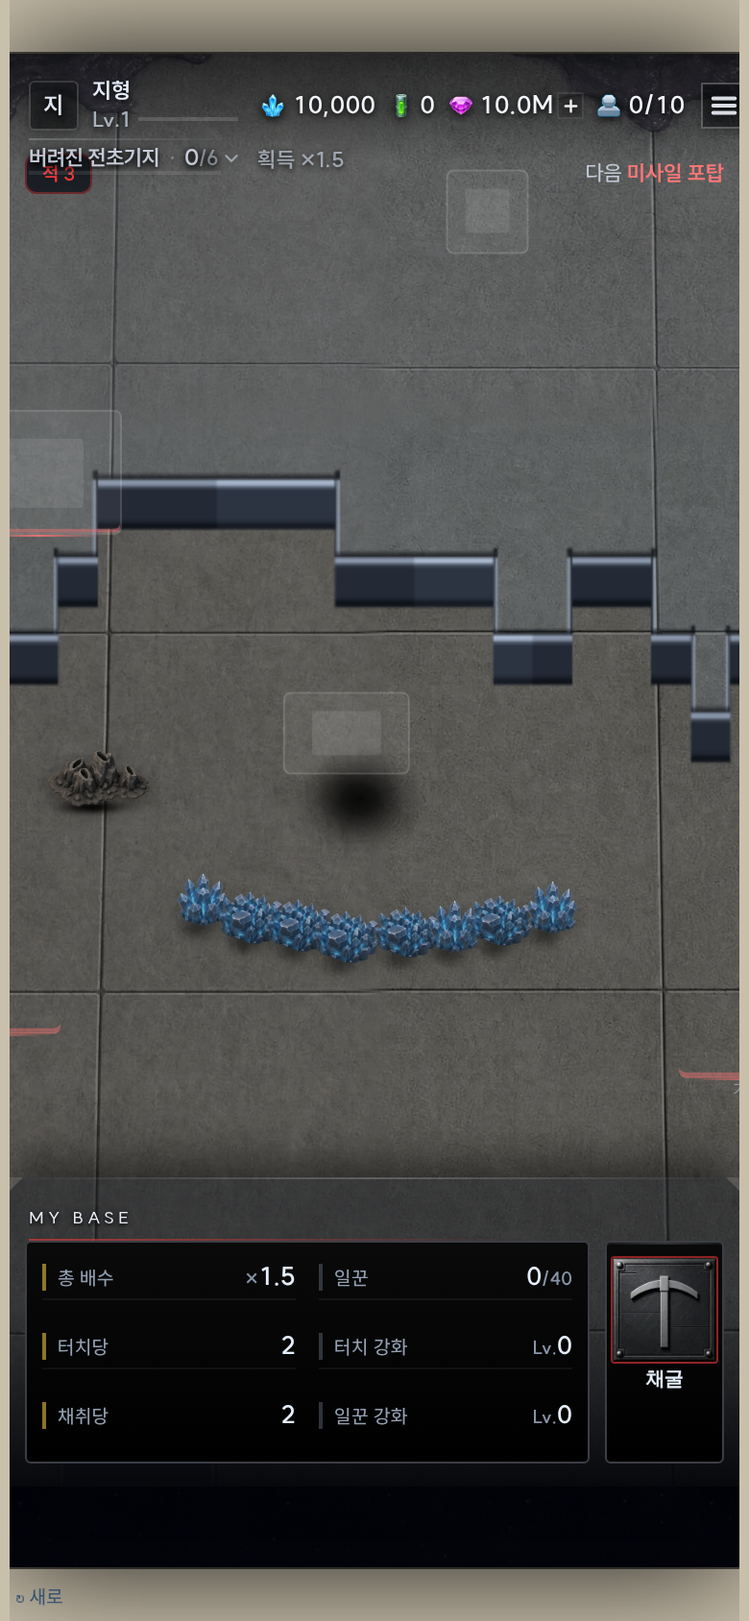
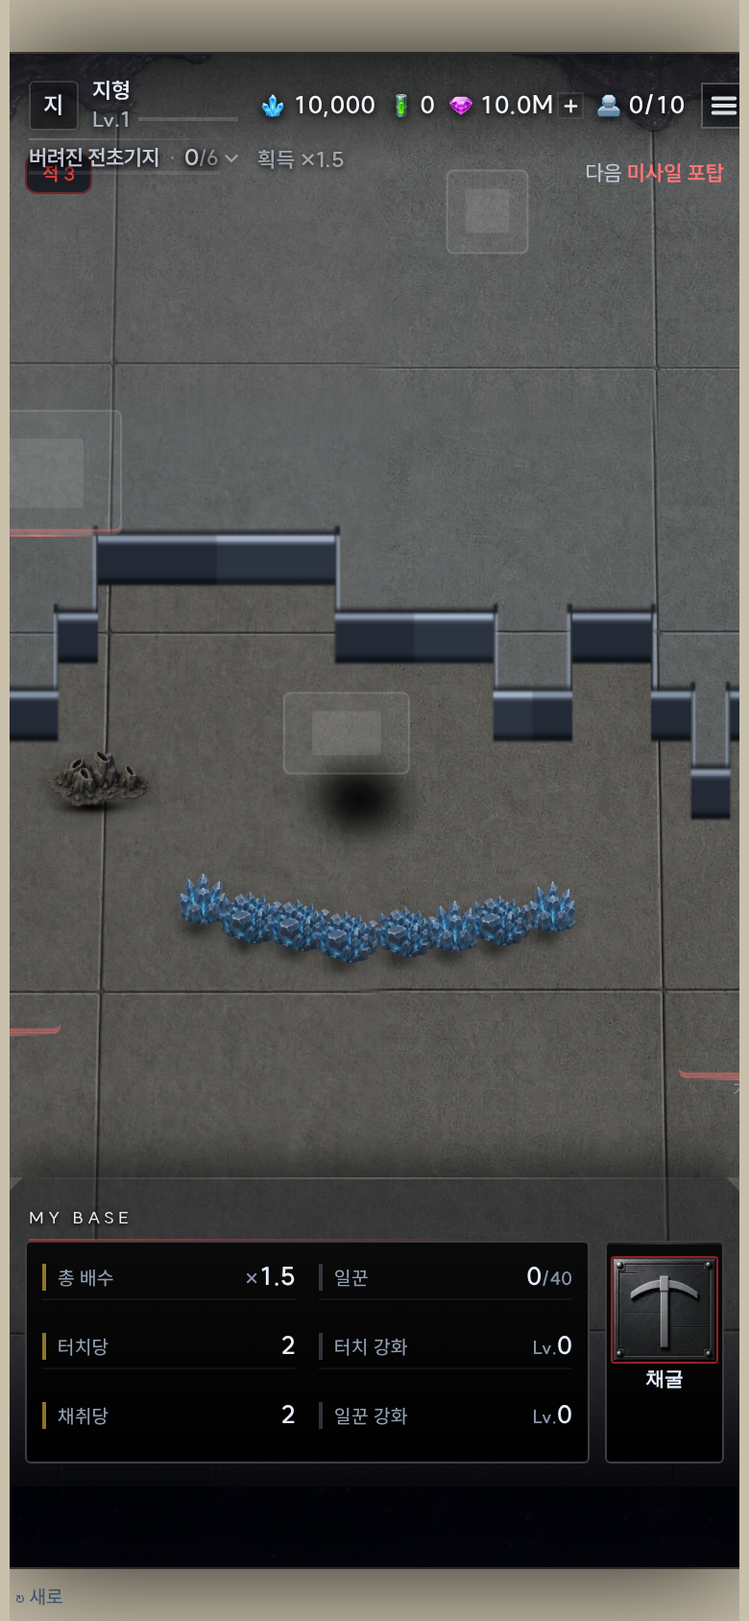
🚶 지형층 3단계 — 전장이 제 길찾기를 갖는다(흐름장)
⛔ **두 번 실패하고 세 번째에 됐다. 되돌리기 전에 ARCHITECTURE §「길막기」를 읽을 것.**

- 2026-09-05: 건물을 원형 장애물로 만들어 국소 회피에 맡김 → 아군이 갇혔다.
- 2026-09-10(이번 세션 앞): 지형을 `_techNavRects` 에 얹어 기지의 A* 를 빌림 → **또 갇혔다.**
  원인은 한 줄이다 — `_techFindPath` 는 기지 격자 전용이라 `p[1]>0.12` 로 노드를 걸러
  **격자 위 지형의 꼭짓점을 전부 버린다**. 장애물은 보되 돌아갈 모서리가 안 생긴다.
  A/B 6판: 지형 끔 6/6 전진 · 켬 4/6(두 판은 반대로 가서 굳었다). 그래서 접었다.

⭐ 지금 방식 — **전장은 제 길찾기를 갖는다.** 목적지 칸마다 BFS 거리 지도(흐름장)를
한 장 만들어 캐시하고, 유닛은 제 칸에서 내리막만 따라간다.
  campTerrMask → campTerrFlow → campTerrWay, 그리고 campMove 는 **목표만 바꾼다**.
  지형은 흐름장, 건물은 기존 A* — 두 길찾기가 각자 제 일만 한다.
  ⛔ 밀어내기는 안 한다(2026-09-05 갇힘의 원인) — 밀려 들어가도 흐름을 타고 나온다.

만들면서 실측으로 잡은 것 넷
- 🛤 **레인 밖을 안 막아** 유닛이 gx 0.06 에 서서 gx 0.01 로 가라는 지시를 30초 받았다.
  전장은 격자 gx 0.06~0.94 만 간다(campG2W 가 펴고 물리가 자른다). 마스크에 넣었다.
- 📏 연결성 검사의 목표 행이 **한 행 어긋나** 300/300 실패했다(마스크는 칸 중심으로
  판단하는데 행은 gy 로 잡았다). 그래서 생성기가 벽을 전부 걷어 내고 있었다.
- 🧹 `campTerrGen` 이 **안 비우고 쌓았다**(램프 12 → 22 → 33).
- 🧗 벽에 바싹 붙으면 옆 칸 중심까지도 「안 보인다」가 되어 우회를 포기하고 굳었다(8판 중 1판).

📊 실측 8판: 벽 너머 도달 8/8 · 고원(램프) 도달 8/8 · 램프를 탄 판 4/8(우회 끄면 0/8) ·
막힌 칸을 밟은 프레임 0~1(끄면 3~8) · 던전 1 클리어 92~99초(기준선 93초).

검증: 스모크에 다섯 가지 추가(램프는 뚫림·절벽 테두리는 막힘 / 레인 밖은 전부 막힘 /
평지에서는 우회 안 함 / 벽 너머로 **실제로 돌아가서** 도달 / 씨앗 결정성).
**주입 시험 5건 전부 물었다** — 처음엔 둘이 안 물어 가드를 고쳤다(「도착했나」로는 못 잰다:
밀어내기를 안 해서 우회를 꺼도 뚫고 도착한다 → 「막힌 칸을 밟은 프레임」으로 바꿨다).

Claude-Session: https://claude.ai/code/session_01EtmtaHFCqqHiZ1fmbN5ZoQ

Changed region(s): [[0.0, 0.2773, 1.0, 0.5237]]

diff --git a/js/24-terrain.js b/js/24-terrain.js
@@ -74,6 +74,9 @@ function campTerrRowAt(wy){ const T = CAMPT; return Math.round(((wy - T.wy0) / (
  *   ⛔ Math.random 을 쓰지 말 것: 저장·복원하면 지형이 바뀌고 스모크가 못 잰다. */
 function campTerrGen(dg, seed){
   const T = CAMPT; if(!T) return null;
+  // 🧹 **비우고 시작한다** — 같은 지형에 두 번 부르면 램프·벽이 **쌓인다**(2026-09-11 실측: 램프 12 → 22 → 33).
+  //   보통은 campTerrInit 이 새 배열을 주지만, 검사·재생성은 같은 지형에 다시 부른다.
+  T.h.fill(0); T.r.fill(0); T.w.fill(0); T.bake = null; T._blk = null; T._flow = null;
   const R = campFoeRng((seed >>> 0) ^ 0x9E3779B9 ^ ((dg | 0) * 2654435761));
   const C = T.cols, W = T.rows;
   // 🏔 고원 — **위 끝에서** 아래 가장자리까지 통째로 고지다.
@@ -109,16 +112,69 @@ function campTerrGen(dg, seed){
   T.bake = null;
   return T; }
 
-/* 🚧 아래 끝(내 기지)에서 위 끝(적 기지)까지 벽을 피해 갈 수 있나 — 4방향 flood fill.
- *   ⚠ 절벽은 여기서 안 본다(램프가 있고, 3단계 전에는 아무것도 안 막는다). */
+/* 🚧 **무엇이 길을 막나** — 한 곳에서 정한다(흐름장·연결성 검사·스모크가 같은 자를 쓴다).
+ *   ① 벽 · ② **절벽의 테두리**(고지인데 4방향 중 저지가 하나라도 있는 칸).
+ *   ⭐ 절벽을 「고원 전체」로 잡으면 적 기지가 통째로 장애물 안에 들어가 아군이 못 간다.
+ *     막아야 하는 것은 **면이 아니라 경계**다 — 고원 안은 걸어 다닐 수 있어야 한다.
+ *   🚪 **램프는 뚫려 있다** — 그것이 올라가는 유일한 길이다(⛔ 램프를 막으면 던전이 멈춘다).
+ *   ⚠ 지도 **밖**은 「높다」로 친다 — 안 그러면 지도 네 변이 통째로 절벽이 된다. */
+function campTerrHiAt(tx, ty){
+  const T = CAMPT;
+  if(tx < 0 || ty < 0 || tx >= T.cols || ty >= T.rows) return 1;   // 밖 = 높다
+  return T.h[ty * T.cols + tx] > 0 ? 1 : 0; }
+function campTerrBlockedAt(tx, ty){
+  const T = CAMPT, i = ty * T.cols + tx;
+  if(T.w[i]) return true;                       // 🧱 벽
+  if(!T.h[i] || T.r[i]) return false;           // 저지·램프는 안 막는다
+  return !campTerrHiAt(tx - 1, ty) || !campTerrHiAt(tx + 1, ty)
+      || !campTerrHiAt(tx, ty - 1) || !campTerrHiAt(tx, ty + 1); }   // ⛰ 절벽 테두리
+/* 🛤 **전장이 실제로 닿는 칸의 범위**(레인 상자 · 격자 좌표).
+ *   ⚠ 지형 격자는 gx 0~1 · gy wy0~1 을 다 갖지만, **전장은 그만큼 못 간다**:
+ *     `campG2W` 가 x 를 `0.5+(gx-0.5)/CAMP_LANE_W` 로 펴고 `strikeMoveToward` 가 0~world 로 자르므로
+ *     격자 x 0.06 보다 왼쪽·0.94 보다 오른쪽은 **전부 같은 자리로 접힌다**. 세로도 마찬가지다(t 가 잘린다).
+ *   ⛔ 이 범위를 흐름장에서 빼지 말 것 — 실측(2026-09-11): 유닛이 gx 0.06 에 서서 **gx 0.01 로 가라는
+ *     지시를 30초 동안 받았다.** 갈 수 없는 칸이라 영영 안 움직였다(8판 중 1판). */
+function campTerrLane(){
+  const w = (typeof CAMP_LANE_W !== 'undefined') ? CAMP_LANE_W : 0.88;
+  const top = (typeof CAMP_LANE_TOP !== 'undefined') ? CAMP_LANE_TOP : -0.26;
+  const bot = (typeof CAMP_LANE_BOT !== 'undefined') ? CAMP_LANE_BOT : 0.62;
+  const tmin = (typeof CAMP_LANE_TMIN !== 'undefined') ? CAMP_LANE_TMIN : (-0.14 / 0.72);
+  return { x0: 0.5 - w / 2, x1: 0.5 + w / 2, y0: top + tmin * (bot - top), y1: bot }; }
+/* 막힌 칸 표 — 흐름장·직선 판정·연결성 검사가 **같은 표**를 본다(한 번만 만든다).
+ *   ⚠ 「지형이 막는가」(`campTerrBlockedAt`)와 다른 자다 — 여기엔 **레인 밖**이 함께 들어간다. */
+function campTerrMask(){
+  const T = CAMPT; if(!T) return null;
+  if(T._blk) return T._blk;
+  const C = T.cols, W = T.rows, m = new Uint8Array(C * W), L = campTerrLane(), span = T.wy1 - T.wy0;
+  for(let ty = 0; ty < W; ty++){ const gy = T.wy0 + ((ty + 0.5) / W) * span;
+    const outY = (gy < L.y0 || gy > L.y1);
+    for(let tx = 0; tx < C; tx++){ const gx = (tx + 0.5) / C;
+      m[ty * C + tx] = (outY || gx < L.x0 || gx > L.x1 || campTerrBlockedAt(tx, ty)) ? 1 : 0; } }
+  T._blk = m; return m; }
+/* 레인 안에 **칸 중심**이 들어오는 행의 위·아래 끝.
+ *   ⚠ 「gy 가 든 행」으로 잡으면 안 된다 — 마스크는 **중심**으로 판단하므로 한 행 어긋나
+ *     목표 행이 통째로 막힌 행이 되어 **연결성 검사가 늘 실패한다**(2026-09-11 실측 300/300). */
+function campTerrLaneRows(){
+  const T = CAMPT, L = campTerrLane(), span = T.wy1 - T.wy0;
+  const inLane = ty => { const gy = T.wy0 + ((ty + 0.5) / T.rows) * span; return gy >= L.y0 && gy <= L.y1; };
+  let hi = 0; while(hi < T.rows && !inLane(hi)) hi++;
+  let lo = T.rows - 1; while(lo >= 0 && !inLane(lo)) lo--;
+  return { hi: hi, lo: lo }; }
+/* 🚧 내 쪽 끝에서 적 쪽 끝까지 갈 수 있나 — 4방향 flood fill.
+ *   ⚠ **절벽도 함께 본다** — 벽만 보면 「램프가 벽에 막혔다」를 못 잡는다.
+ *   ⚠ **레인 안에서만 잰다**(campTerrMask) — 격자 맨 아랫줄·맨 윗줄은 전장이 못 가는 자리다.
+ *     거기서 출발하면 늘 「막혔다」가 나와 생성기가 벽을 전부 걷어 낸다. */
 function campTerrConnected(){
   const T = CAMPT; if(!T) return true;
-  const C = T.cols, W = T.rows, seen = new Uint8Array(C * W), q = [];
-  for(let tx = 0; tx < C; tx++){ const i = (W - 1) * C + tx; if(!T.w[i]){ seen[i] = 1; q.push(i); } }
+  T._blk = null;                       // 벽이 방금 바뀌었다 — 표를 다시 만든다
+  const C = T.cols, W = T.rows, m = campTerrMask(), R = campTerrLaneRows();
+  const yLo = R.lo, yHi = R.hi;   // 아래(나) ↔ 위(적)
+  const seen = new Uint8Array(C * W), q = [];
+  for(let tx = 0; tx < C; tx++){ const i = yLo * C + tx; if(!m[i]){ seen[i] = 1; q.push(i); } }
   for(let p = 0; p < q.length; p++){ const i = q[p], x = i % C, y = (i / C) | 0;
-    if(y === 0) return true;
+    if(y <= yHi) return true;
     const nb = [x > 0 ? i - 1 : -1, x < C - 1 ? i + 1 : -1, y > 0 ? i - C : -1, y < W - 1 ? i + C : -1];
-    for(const j of nb){ if(j < 0 || seen[j] || T.w[j]) continue; seen[j] = 1; q.push(j); } }
+    for(const j of nb){ if(j < 0 || seen[j] || m[j]) continue; seen[j] = 1; q.push(j); } }
   return false; }
 
 // ── 오토타일 ──────────────────────────────────────────────────────────────
@@ -291,6 +347,111 @@ function campTerrPushHeight(fog){
 function campTerrHeightFill(f){
   if(!f || !campTerrSync()) return 0;
   return campTerrPushHeight(f); }
+
+/* ══ 🚶 길막기 — 전장 흐름장 (2026-09-11 · 3단계) ══════════════════════════════════
+ * ⛔ **먼저 두 번 실패했다. 되돌리기 전에 여기를 읽을 것.**
+ *   ① 2026-09-05 — 건물을 「원형 장애물」로 만들어 국소 회피에 맡겼다 → **아군이 갇혔다**
+ *     (의무병이 아군에게서 1152 → 1387 로 멀어졌다 · 19-camp.js 3017). 길찾기가 없으면 뒤로 길이 안 난다.
+ *   ② 2026-09-10 — 지형을 **`_techNavRects` 에 얹어** 기지의 A\*(`_techFindPath`)를 빌리려 했다 →
+ *     **또 갇혔다.** 원인은 그 함수가 **기지 격자 전용**이라는 것이다: 노드를 고를 때 `p[1]>0.12` 로
+ *     거르므로(16-build.js) **격자 위 지형의 꼭짓점이 전부 버려진다** — 장애물은 보되 **돌아갈 모서리가
+ *     하나도 안 생긴다.** 실측 A/B 6판: 지형 끔 6/6 전진 · 지형 켬 **4/6**(두 판은 반대로 가서 굳었다).
+ *   ⛔ 그래서 지형을 `_techNavRects` 에 넣지 말 것. 16-build.js 도 못 고친다(관리자 탭·오토배틀 공유).
+ *
+ * ⭐ **그래서 전장은 제 길찾기를 갖는다 — 지형 격자 위의 흐름장이다.**
+ *   목적지 칸마다 **BFS 거리 지도**를 한 장 만들고(캐시), 유닛은 제 칸에서 **내리막**만 따라간다.
+ *   · 유닛 수에 비례하지 않는다(지도 한 장을 전군이 나눠 읽는다)
+ *   · y 제한이 없다(격자 위 적 기지까지 같은 격자다)
+ *   · 지형은 안 변하니 목적지당 **한 번만** 계산한다
+ *   ⚠ **목표를 바꾸기만 한다** — 그 뒤의 건물 회피(`_techFindPath`)는 그대로 돈다. 두 길찾기가
+ *     각자 제 일만 한다: 지형은 흐름장, 건물은 A\*. ⛔ 하나로 합치려 하지 말 것.
+ *   ⚠ **밀어내기는 하지 않는다** — 억지로 밀려 들어간 유닛도 흐름을 타고 스스로 나온다(①의 교훈).
+ */
+const TERR_WAY_STEPS = 28;    // 흐름을 따라 앞을 내다보는 칸 수(끈 당기기)
+const TERR_FLOW_KEEP = 8;     // 들고 있는 흐름장 수(목적지별)
+const TERR_SEG_MAX   = 160;   // 직선 판정에서 찍어 보는 점의 상한
+
+function campTerrIdxAt(gx, gy){
+  const T = CAMPT; if(!T) return -1;
+  const C = T.cols, W = T.rows;
+  const x = Math.floor(gx * C), y = Math.floor(((gy - T.wy0) / (T.wy1 - T.wy0)) * W);
+  return (x < 0 || y < 0 || x >= C || y >= W) ? -1 : y * C + x; }
+function campTerrCellMid(i){
+  const T = CAMPT, C = T.cols, W = T.rows;
+  return { gx: ((i % C) + 0.5) / C, gy: T.wy0 + ((((i / C) | 0) + 0.5) / W) * (T.wy1 - T.wy0) }; }
+/* 직선이 지형에 막히나 — 칸 해상도로 찍어 본다(⚠ 매 프레임 유닛마다 불린다: 상한을 둔다). */
+function campTerrSegBlocked(x0, y0, x1, y1){
+  const T = CAMPT; if(!T) return false;
+  const m = campTerrMask(), C = T.cols, W = T.rows, span = T.wy1 - T.wy0;
+  const n = Math.max(2, Math.min(TERR_SEG_MAX,
+    Math.ceil(Math.max(Math.abs(x1 - x0) * C, (Math.abs(y1 - y0) / span) * W) * 1.5)));
+  for(let k = 0; k <= n; k++){ const t = k / n;
+    const x = Math.floor((x0 + (x1 - x0) * t) * C);
+    const y = Math.floor((((y0 + (y1 - y0) * t) - T.wy0) / span) * W);
+    if(x < 0 || y < 0 || x >= C || y >= W) continue;
+    if(m[y * C + x]) return true; }
+  return false; }
+/* 목적지 칸 → 거리 지도(BFS). ⚠ 목적지가 막힌 칸이면(건물이 절벽 테두리에 섰다) **둘레에서** 시작한다. */
+function campTerrFlow(goal){
+  const T = CAMPT; if(!T) return null;
+  if(!T._flow) T._flow = new Map();
+  const hit = T._flow.get(goal); if(hit) return hit;
+  const C = T.cols, W = T.rows, n = C * W, m = campTerrMask();
+  const dist = new Int32Array(n).fill(-1), q = [];
+  const seed = i => { if(i >= 0 && i < n && dist[i] < 0 && !m[i]){ dist[i] = 0; q.push(i); } };
+  seed(goal);
+  if(!q.length){ const gx = goal % C, gy = (goal / C) | 0;
+    for(let r = 1; r <= 4 && !q.length; r++)
+      for(let dy = -r; dy <= r; dy++) for(let dx = -r; dx <= r; dx++){
+        if(Math.max(Math.abs(dx), Math.abs(dy)) !== r) continue;
+        const x = gx + dx, y = gy + dy; if(x < 0 || y < 0 || x >= C || y >= W) continue;
+        seed(y * C + x); } }
+  for(let p = 0; p < q.length; p++){
+    const i = q[p], x = i % C, y = (i / C) | 0, d = dist[i] + 1;
+    if(x > 0    && dist[i - 1] < 0 && !m[i - 1]){ dist[i - 1] = d; q.push(i - 1); }
+    if(x < C - 1 && dist[i + 1] < 0 && !m[i + 1]){ dist[i + 1] = d; q.push(i + 1); }
+    if(y > 0    && dist[i - C] < 0 && !m[i - C]){ dist[i - C] = d; q.push(i - C); }
+    if(y < W - 1 && dist[i + C] < 0 && !m[i + C]){ dist[i + C] = d; q.push(i + C); } }
+  if(T._flow.size >= TERR_FLOW_KEEP) T._flow.delete(T._flow.keys().next().value);
+  T._flow.set(goal, dist);
+  return dist; }
+function _terrDownhill(i, d){
+  const T = CAMPT, C = T.cols, W = T.rows, x = i % C, y = (i / C) | 0;
+  let best = -1, bd = d[i];
+  const try_ = j => { if(j >= 0 && j < C * W && d[j] >= 0 && d[j] < bd){ bd = d[j]; best = j; } };
+  if(x > 0) try_(i - 1); if(x < C - 1) try_(i + 1);
+  if(y > 0) try_(i - C); if(y < W - 1) try_(i + C);
+  return best; }
+/* 🚶 **다음에 향할 지점** — 지형이 직선을 안 막으면 `null`(아무것도 안 바꾼다).
+ *   막으면 흐름을 따라가며 **직선이 통하는 가장 먼 칸**을 돌려준다(끈 당기기 — 계단식 경로 제거). */
+function campTerrWay(gA, gB){
+  const T = CAMPT; if(!T) return null;
+  if(!campTerrSegBlocked(gA.gx, gA.gy, gB.gx, gB.gy)) return null;
+  const goal = campTerrIdxAt(gB.gx, gB.gy), from = campTerrIdxAt(gA.gx, gA.gy);
+  if(goal < 0 || from < 0) return null;
+  const d = campTerrFlow(goal); if(!d) return null;
+  let cur = from;
+  if(d[cur] < 0){                       // 내가 막힌 칸에 밀려 들어갔다 → 가장 가까운 갈 수 있는 칸으로
+    const C = T.cols, W = T.rows, x = cur % C, y = (cur / C) | 0; let pick = -1, pd = 1e9;
+    for(let r = 1; r <= 3 && pick < 0; r++)
+      for(let dy = -r; dy <= r; dy++) for(let dx = -r; dx <= r; dx++){
+        const nx = x + dx, ny = y + dy; if(nx < 0 || ny < 0 || nx >= C || ny >= W) continue;
+        const j = ny * C + nx; if(d[j] < 0 || d[j] >= pd) continue; pd = d[j]; pick = j; }
+    if(pick < 0) return null; cur = pick; }
+  let best = -1, first = -1, step = cur;
+  for(let k = 0; k < TERR_WAY_STEPS; k++){
+    const nx = _terrDownhill(step, d); if(nx < 0) break; step = nx;
+    if(first < 0) first = nx;
+    const p = campTerrCellMid(step);
+    if(campTerrSegBlocked(gA.gx, gA.gy, p.gx, p.gy)) break;   // 여기서부터는 안 보인다 → 앞의 것이 답
+    best = step;
+    if(d[step] === 0) break; }
+  /* ⚠ **한 칸도 안 보여도 포기하지 않는다.** 벽에 바싹 붙어 서면 바로 옆 칸의 **중심까지도**
+   *   선이 벽 모서리를 스쳐 「안 보인다」가 된다. 거기서 null 을 주면 직선으로 벽을 밀고,
+   *   이동 물리의 진행도 창(`_pgHold`)이 걸려 **그대로 선다**(실측 8판 중 1판 · 2026-09-11).
+   *   바로 옆 칸은 어차피 붙어 있으니 그냥 준다 — 한 걸음이라도 흐름을 타면 곧 풀린다. */
+  if(best < 0) best = first;
+  return best < 0 ? null : campTerrCellMid(best); }
 
 /* 매 프레임 — 구운 그림 한 장을 뷰 사각형에 확대해 그린다(techFogDraw 와 같은 식). */
 function campTerrDraw(){

diff --git a/test/smoke.js b/test/smoke.js
@@ -7830,7 +7830,7 @@ async function groupLobby(){
    *   재는 것은 다섯이다: ① 집에는 없다 ② 격자가 **안개와 같다** ③ 씨앗이 같으면 지형도 같다
    *   ④ 길이 안 막힌다 ⑤ **서명이 같으면 다시 굽지 않는다**(이걸 어겼을 때 스모크가 통째로 멎었다). */
   await step('캠프 던전: 지형층 — 격자는 안개와 같고 · 길은 안 막히고 · 다시 굽지 않는다', async()=>{
-    skipIf(typeof campTerrDraw!=='function'||typeof campTerrGen!=='function','지형층 없음');
+    skipIf(typeof campTerrDraw!=='function'||typeof campTerrWay!=='function','지형층 없음');
     const C=campState(); const back={dg:C.dg};
     try{
       // ① 집(캠프)에는 지형이 없다 — 집은 평지다
@@ -7910,11 +7910,62 @@ async function groupLobby(){
         assert(g.hi!==2,'아래에서 고원 위가 보인다 — 고저 차단이 안 걸렸다');
         assert(shoot(true).hi===2,'공중인데 고원이 안 보인다 — air 가 지형을 무시해야 한다');
         techFogCompute(); }
+      /* 🚶 **길막기**(3단계) — 지형이 직선을 막으면 흐름장이 다음 지점을 준다.
+       *   ⛔ 지형을 `_techNavRects` 에 얹는 방식으로 되돌리지 말 것 — `_techFindPath` 는 기지 격자
+       *     전용(`p[1]>0.12`)이라 격자 위 지형의 꼭짓점을 전부 버려 **아군이 갇힌다**(실측 6판 중 2판). */
+      { const T=CAMPT, L=campTerrLane(), m=campTerrMask(), C2=T.cols, W2=T.rows, span=T.wy1-T.wy0;
+        const mid=i=>({gx:((i%C2)+0.5)/C2, gy:T.wy0+((((i/C2)|0)+0.5)/W2)*span});
+        // 램프는 뚫려 있고 절벽 테두리는 막혀 있다
+        let ramp=-1, rim=-1;
+        for(let ty=0;ty<W2;ty++) for(let tx=0;tx<C2;tx++){ const i=ty*C2+tx;
+          if(ramp<0 && T.r[i] && !m[i]) ramp=i;
+          if(rim<0 && T.h[i] && !T.r[i] && campTerrBlockedAt(tx,ty)) rim=i; }
+        assert(ramp>=0,'램프가 통로가 아니다 — 올라갈 길이 사라진다');
+        assert(rim>=0,'절벽 테두리가 하나도 안 막힌다');
+        // 레인 밖은 못 가는 자리다(campG2W 가 접는다) → 마스크가 막아야 한다
+        { let outOpen=0;
+          for(let ty=0;ty<W2;ty++){ const gy=T.wy0+((ty+0.5)/W2)*span;
+            for(let tx=0;tx<C2;tx++){ const gx=(tx+0.5)/C2;
+              if((gx<L.x0||gx>L.x1||gy<L.y0||gy>L.y1) && !m[ty*C2+tx]) outOpen++; } }
+          assert(outOpen===0,'레인 밖 칸이 열려 있다('+outOpen+') — 유닛이 못 가는 자리로 길을 낸다'); }
+        // 막지 않으면 null(아무것도 안 바꾼다) · 막으면 레인 안의 지점을 준다
+        { const a={gx:0.5,gy:0.55}, bb={gx:0.52,gy:0.5};
+          assert(campTerrWay(a,bb)===null,'안 막혔는데 우회 지점을 준다 — 평지에서 길이 휜다'); }
+        { let wi=-1; for(let i=0;i<T.w.length;i++) if(T.w[i]){ wi=i; break; }
+          if(wi>=0){ const wx=wi%C2, wy=(wi/C2)|0;
+            const sg=mid(Math.min(W2-1,wy+5)*C2+wx), tg=mid(Math.max(0,wy-5)*C2+wx);
+            if(!m[Math.min(W2-1,wy+5)*C2+wx] && !m[Math.max(0,wy-5)*C2+wx]){
+              const way=campTerrWay(sg,tg);
+              assert(way,'벽 너머로 가라는데 우회 지점을 안 준다');
+              assert(way.gx>=L.x0-1e-6 && way.gx<=L.x1+1e-6 && way.gy>=L.y0-1e-6 && way.gy<=L.y1+1e-6,
+                '우회 지점이 레인 밖이다 — 유닛이 못 가는 자리로 간다: '+way.gx.toFixed(3)+','+way.gy.toFixed(3));
+              // 🚶 **실제로 벽을 돌아 도착하나** — 전투 AI 를 빼고 campMove 만 15초 돌린다
+              const W3=CAMPB.world, p0=campG2W(sg.gx,sg.gy,W3), p1=campG2W(tg.gx,tg.gy,W3);
+              campWithStk(()=>{ STK.me.units.length=0; });
+              const u=campDeploy('marine', 0.5, 0.5);
+              if(u){ u.x=p0.x; u.y=p0.y; u._cpWp=null; u._pgHold=false; u._pgT=0; u._pgX=null;
+                const d0=Math.hypot(p1.x-u.x,p1.y-u.y);
+                /* ⚠ **「도착했나」만으로는 부족하다.** 지형은 밀어내기를 안 하므로 우회를 꺼도 벽을
+                 *   뚫고 지나가 도착한다 — 그래서 가드가 안 물었다(2026-09-11 주입 시험).
+                 *   ⭐ **막힌 칸을 밟은 프레임 수**로 잰다: 우회 켬 0~1 · 끔 3~8(실측 8판). */
+                let onBlk=0;
+                campWithStk(()=>{ for(let i=0;i<450;i++){ u.hp=1e9; u.maxHp=1e9; u.dead=false;
+                  campMove(u,p1.x,p1.y,1/30);
+                  const gg=campW2G(u.x,u.y,W3), cx=Math.floor(gg.gx*C2), cy=Math.floor(((gg.gy-T.wy0)/span)*W2);
+                  if(cx>=0&&cy>=0&&cx<C2&&cy<W2&&m[cy*C2+cx]) onBlk++; } });
+                const d1=Math.hypot(p1.x-u.x,p1.y-u.y);
+                assert(d1 < d0*0.25,'벽 너머로 못 갔다(갇혔다): '+Math.round(d0)+' → '+Math.round(d1));
+                assert(onBlk<=2,'막힌 칸을 '+onBlk+'프레임 밟고 지나갔다 — 우회가 안 걸렸다(campMove 가 campTerrWay 를 안 쓴다)');
+                campWithStk(()=>{ STK.me.units.length=0; }); } } } } }
       // ⑥ 씨앗이 같으면 지형도 같다(⛔ Math.random 금지 — 저장·복원하면 자리가 바뀐다)
-      { const a=Array.from(CAMPT.h).join('')+'|'+Array.from(CAMPT.w).join('');
-        campTerrGen(campDgN(), C.foeSeed||1);
-        const b=Array.from(CAMPT.h).join('')+'|'+Array.from(CAMPT.w).join('');
-        assert(a===b,'같은 씨앗인데 지형이 다르다 — Math.random 이 섞였다'); }
+      //   ⚠ 램프까지 함께 본다 — 생성기가 배열을 안 비우면 **두 번째 호출에서 쌓인다**(실측 12 → 22).
+      /* ⚠ **같은 씨앗으로 두 번 부르는 것만으로는 「쌓임」을 못 잡는다** — 같은 자리에 다시 칠하니
+       *   결과가 같다(2026-09-11 주입 시험에서 안 물었다). **다른 씨앗을 한 번 끼워** 넣어야 보인다. */
+      { const sig=()=>Array.from(CAMPT.h).join('')+'|'+Array.from(CAMPT.w).join('')+'|'+Array.from(CAMPT.r).join('');
+        const seed=C.foeSeed||1, a=sig();
+        campTerrGen(campDgN(), (seed ^ 0x5bf03635) >>> 0);   // 남의 씨앗으로 한 번
+        campTerrGen(campDgN(), seed);                        // 원래 씨앗으로 되돌린다
+        assert(sig()===a,'같은 씨앗인데 지형이 다르다 — Math.random 이 섞였거나 생성기가 안 비우고 쌓는다'); }
       return CAMPT.cols+'x'+CAMPT.rows+' · 고지 '+hi+' · 벽 '+wall+' · 램프 '+ramp+' · 한 번만 구웠다';
     } finally { C.dg=back.dg; campBattleClose(); campFogSync(); campTerrDraw(); campBarReset(); }
   });

diff --git a/js/21-camp-battle.js b/js/21-camp-battle.js
@@ -88,6 +88,15 @@ function campMove(u, tx, ty, dt){
   if(typeof campW2G !== 'function' || typeof campG2W !== 'function' || typeof _techFindPath !== 'function'){
     strikeMoveToward(u, tx, ty, step); return; }
   const gA = campW2G(u.x, u.y, W), gB = campW2G(tx, ty, W);
+  /* 🗺 **지형 우회**(2026-09-11 · js/24-terrain.js campTerrWay) — 벽·절벽이 직선을 막으면
+   *   흐름장이 **다음에 향할 지점**을 준다. 여기서는 **목표만 바꾼다** — 그 아래의 건물 길찾기
+   *   (`_techFindPath`)는 그대로 돈다. 지형은 흐름장이, 건물은 A\* 가 맡는 두 갈래다.
+   *   ⛔ 지형을 `_techNavRects` 에 얹는 방식으로 되돌리지 말 것 — `_techFindPath` 는 기지 격자
+   *     전용이라 `p[1]>0.12` 로 노드를 걸러 **격자 위 지형의 꼭짓점을 전부 버린다**.
+   *     장애물은 보되 돌아갈 모서리가 안 생겨 **아군이 갇힌다**(실측 6판 중 2판 · 2026-09-10). */
+  if(typeof campTerrWay === 'function'){
+    const way = campTerrWay(gA, gB);
+    if(way){ const p = campG2W(way.gx, way.gy, W); tx = p.x; ty = p.y; gB.gx = way.gx; gB.gy = way.gy; } }
   // 들고 있던 길 — 목표가 그대로면 이어서 따라간다
   const wp = u._cpWp;
   if(wp && wp.length && u._cpGx != null

diff --git a/ARCHITECTURE.md b/ARCHITECTURE.md
@@ -126,13 +126,44 @@
 다음에 안개를 켜는 순간 없는 벽이 시야를 막는다(2026-09-10 스모크가 잡았다).
 ⚠ **우리가 심은 것일 때만** 지운다 — 안 그러면 관리자 탭의 `TECH_HILL` 까지 지운다.
 
-**남은 것.**
-- 🚶 3단계(길막기) — `window._techNavRects` 를 감싸(캠프 전용 · `campPatchHit` 과 같은 자리) 지형 사각형을 덧붙인다.
-  ⚠ 칸 하나당 사각형 하나로 주면 A\* 가 터진다(`_techFindPath` 는 꼭짓점 전부를 노드로 쓴다) — **큰 덩어리로 합칠 것**.
-  ⚠ 그전에 **건물을 장애물로 만들었다가 아군이 갇힌 적이 있다**(19-camp.js 3017) — 원인은 길찾기 부재였고
-  지금은 `campMove` 가 `_techFindPath` 를 쓴다. 벽도 반드시 그 경로를 타야 한다.
-- ⚠ **2단계까지는 앞뒤가 조금 안 맞는다** — 절벽이 시야는 막는데 **걸음은 안 막는다**(유닛이 절벽을 뚫고 오른다).
-  3단계에서 풀린다.
+#### 🚶 길막기 — 전장 흐름장 (3단계 · 2026-09-11)
+
+**⛔ 두 번 실패했다. 되돌리기 전에 여기를 읽을 것.**
+
+| 시도 | 무엇을 했나 | 어떻게 깨졌나 |
+|---|---|---|
+| 2026-09-05 | 건물을 원형 장애물로 만들어 **국소 회피**에 맡겼다 | 아군이 갇혔다(의무병이 아군에게서 1152 → 1387) |
+| 2026-09-10 | 지형을 **`_techNavRects`** 에 얹어 기지의 A\*(`_techFindPath`)를 빌렸다 | **또 갇혔다.** A/B 6판: 지형 끔 6/6 전진 · 켬 **4/6**(2판은 반대로 가서 굳었다) |
+
+두 번째의 원인은 한 줄이다 — `_techFindPath` 는 **기지 격자 전용**이라 노드를 고를 때 `p[1]>0.12` 로 거른다
+(`js/16-build.js`). 그래서 **격자 위 지형의 꼭짓점이 전부 버려진다**: 장애물은 보되 **돌아갈 모서리가 안 생긴다.**
+⛔ 그 방식으로 되돌리지 말 것. 16-build.js 도 못 고친다(관리자 탭·오토배틀 공유).
+
+**⭐ 지금 방식 — 전장은 제 길찾기를 갖는다.** 목적지 칸마다 **BFS 거리 지도**(흐름장)를 한 장 만들어 캐시하고,
+유닛은 제 칸에서 **내리막**만 따라간다.
+
+| 함수 | 하는 일 |
+|---|---|
+| `campTerrMask()` | 막힌 칸 표 — **지형 + 레인 밖**(아래 ⚠) |
+| `campTerrFlow(goal)` | 목적지 칸 → BFS 거리 지도(LRU `TERR_FLOW_KEEP`) |
+| `campTerrWay(gA,gB)` | 직선이 안 막히면 **null** · 막히면 흐름을 따라 **직선이 통하는 가장 먼 칸** |
+| `campMove`(21-camp-battle) | `campTerrWay` 로 **목표만 바꾼다** — 건물 회피(`_techFindPath`)는 그대로 |
+
+- ⭐ 지형은 흐름장, 건물은 A\* — **두 길찾기가 각자 제 일만 한다.** ⛔ 하나로 합치려 하지 말 것.
+- ⚠ **밀어내기는 안 한다.** 억지로 밀려 들어간 유닛도 흐름을 타고 스스로 나온다(2026-09-05 의 교훈).
+  그래서 「막힌 칸을 몇 프레임 밟았나」는 0 이 아니라 **0~1** 이 정상이다(우회 끄면 3~8 · 실측 8판).
+- ⚠ **레인 밖을 반드시 막을 것.** 지형 격자는 gx 0~1 을 갖지만 **전장은 gx 0.06~0.94 만** 간다
+  (`campG2W` 가 `CAMP_LANE_W` 로 펴고 물리가 0~world 로 자른다). 안 막으면 유닛이 gx 0.06 에 서서
+  **gx 0.01 로 가라는 지시를 30초 동안** 받는다(실측 8판 중 1판이 영영 안 움직였다).
+- ⚠ **연결성 검사도 레인 안에서** 잰다(`campTerrLaneRows`) — 격자 맨 위·아래 줄은 전장이 못 가는 자리다.
+  ⛔ 「gy 가 든 행」으로 잡지 말 것: 마스크는 **칸 중심**으로 판단해 한 행 어긋나면 목표 행이 통째로 막혀
+  **연결성 검사가 늘 실패한다**(실측 300/300 · 그러면 생성기가 벽을 전부 걷어 낸다).
+- ⚠ **한 칸도 안 보여도 포기하지 않는다.** 벽에 바싹 붙으면 바로 옆 칸 중심까지도 선이 모서리를 스쳐
+  「안 보인다」가 된다. 거기서 null 을 주면 직선으로 벽을 밀고 이동 물리의 진행도 창(`_pgHold`)이 걸려 **선다**.
+- 🧹 `campTerrGen` 은 **비우고 시작한다** — 같은 지형에 두 번 부르면 램프·벽이 **쌓인다**(실측 12 → 22 → 33).
+
+📊 실측(2026-09-11 · 8판): 벽 너머 도달 **8/8** · 고원(램프) 도달 **8/8** · 램프를 탄 판 4/8(우회 끄면 0/8) ·
+던전 1 클리어 96~99초(기준선 93초).
 
 🎬 **손댔으면 `node scripts/camp-terr-shot.mjs` 로 눈으로 볼 것** — 칸이 맞물리나 / 절벽이 높이로 읽히나가
 전부라 숫자로는 안 보인다.

diff --git a/CLAUDE.md b/CLAUDE.md
@@ -66,7 +66,10 @@
   - ⚠ **고원 윗면은 반투명**이다 — 지금 바닥은 배경 그림 한 장이고 거기 고원이 이미 그려져 있다(ART.md §17). 불투명하게 채우면 커다란 회청색 판이 된다(실측). 바닥이 타일로 바뀌기 전에는 되돌리지 말 것.
   - 🚪 **램프를 빼지 말 것** · 🚧 **길이 막히면 안 된다**(`campTerrConnected`) · 🧱 벽은 **0.05~0.16 띠에만**(내 격자·적 기지 줄과 겹치면 건물 위에 선다) · ⛰ 고원 밑변은 **계단**(열마다 따로 굴리면 빗살이 된다).
   - 👁 **시야 차단은 배선됐다**(2026-09-10 2단계) — 막는 일은 엔진(`_fogReveal`)이 이미 하고 있었고, 새로 만든 것은 **안개의 `f.height` 를 채우는 함수 둘**뿐이다(`campTerrHeightFill` 훅 ← `techFogInit` · `campTerrPushHeight`). ⛔ 차단 규칙을 새로 짜지 말 것 · ⛔ 훅을 「sync 만 부르고 끝」으로 줄이지 말 것(안개는 방금 새로 파여 높이가 0인데 `techFogInit` 이 **바로** 시야를 계산한다 → 첫 시야가 절벽을 넘어 고원 건물이 `b.vis` 로 켜진다) · 🚪 **램프는 낮은 쪽으로 친다**(⛔ 고지로 치면 올라갈 길이 어둠에 잠긴다) · 🧹 **집으로 오면 고저를 걷는다**(⚠ 우리가 심은 것일 때만 — 관리자 `TECH_HILL` 을 지우면 안 된다).
-  - 🎬 **손댔으면 `node scripts/camp-terr-shot.mjs` 로 눈으로 볼 것.** 🚶 길막기는 **아직 배선 안 했다**(3단계) — `_techNavRects` 를 감싸고 **벽 칸을 큰 덩어리로 합쳐야** A\* 가 안 터진다. ⚠ 2단계까지는 **절벽이 시야는 막는데 걸음은 안 막는다**.
+  - 🚶 **길막기는 「전장 흐름장」이다**(2026-09-11 3단계 · `campTerrMask`→`campTerrFlow`→`campTerrWay` → `campMove` 가 **목표만 바꾼다**). ⛔⛔ **지형을 `_techNavRects` 에 얹는 방식으로 되돌리지 말 것** — `_techFindPath` 는 기지 격자 전용이라 `p[1]>0.12` 로 노드를 걸러 **격자 위 지형의 꼭짓점을 전부 버린다**(장애물은 보되 돌아갈 모서리가 안 생겨 **아군이 갇힌다** · A/B 6판 중 2판). 지형은 흐름장, 건물은 A\* — ⛔ 하나로 합치지 말 것 · ⛔ 밀어내기를 더하지 말 것(2026-09-05 갇힘의 원인).
+    - ⚠ **레인 밖(gx 0.06~0.94 · gy −0.431~0.62 밖)을 반드시 막을 것** — 전장이 못 가는 자리다(실측: 유닛이 30초간 못 가는 칸으로 가라는 지시를 받고 안 움직였다). 연결성 검사도 **레인 안에서**(`campTerrLaneRows` · ⛔ 「gy 가 든 행」으로 잡으면 한 행 어긋나 300/300 실패한다).
+    - ⚠ 「막힌 칸을 밟은 프레임」은 **0~1 이 정상**(밀어내기를 안 하므로) — 우회를 끄면 3~8 이다. 스모크가 그 차이로 배선을 잰다.
+  - 🎬 **손댔으면 `node scripts/camp-terr-shot.mjs` 로 눈으로 볼 것.**
 - 🧱 **밸런스를 잴 땐 「도달 던전·라운드」를 쓰지 말 것**(2026-09-08 실측) — 한 팔 안의 편차가 팔 사이 차이만큼
   크다. **번 돈**이 훨씬 안정적인 자다. 전략이 갈리는지는 **`node scripts/camp-strat.mjs`**(전략 프리셋 + 갈림도)로 잰다.
   ⚠ 옛 「구매 정책 A/B/C」는 **전략이 아니다**(셋 다 같은 ROI 순위) — 그걸로 잰 비교는 전부 같은 전략을 견준 것이다.
